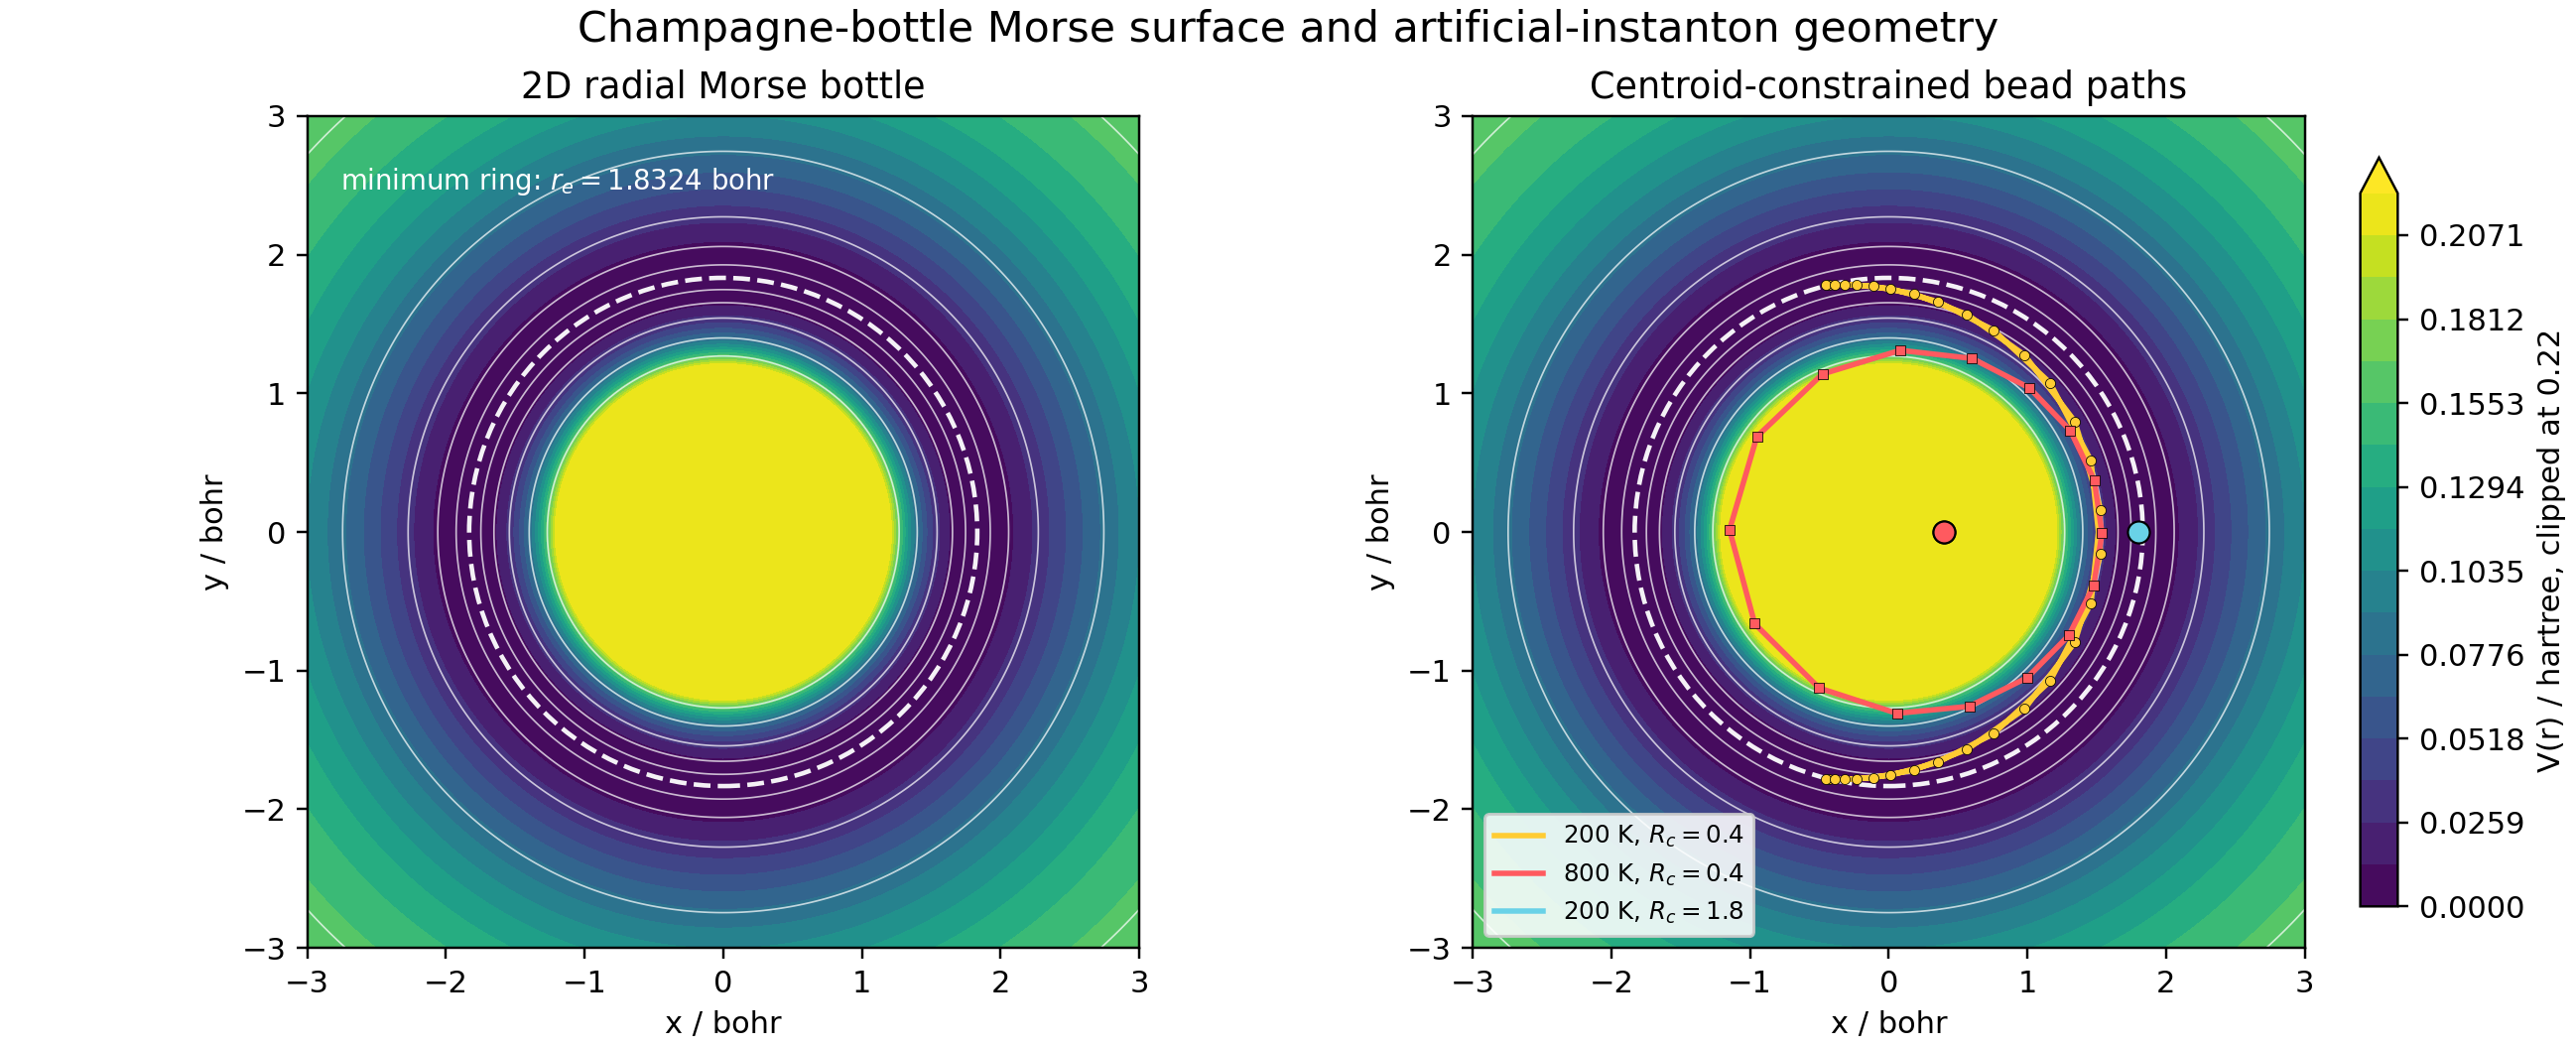
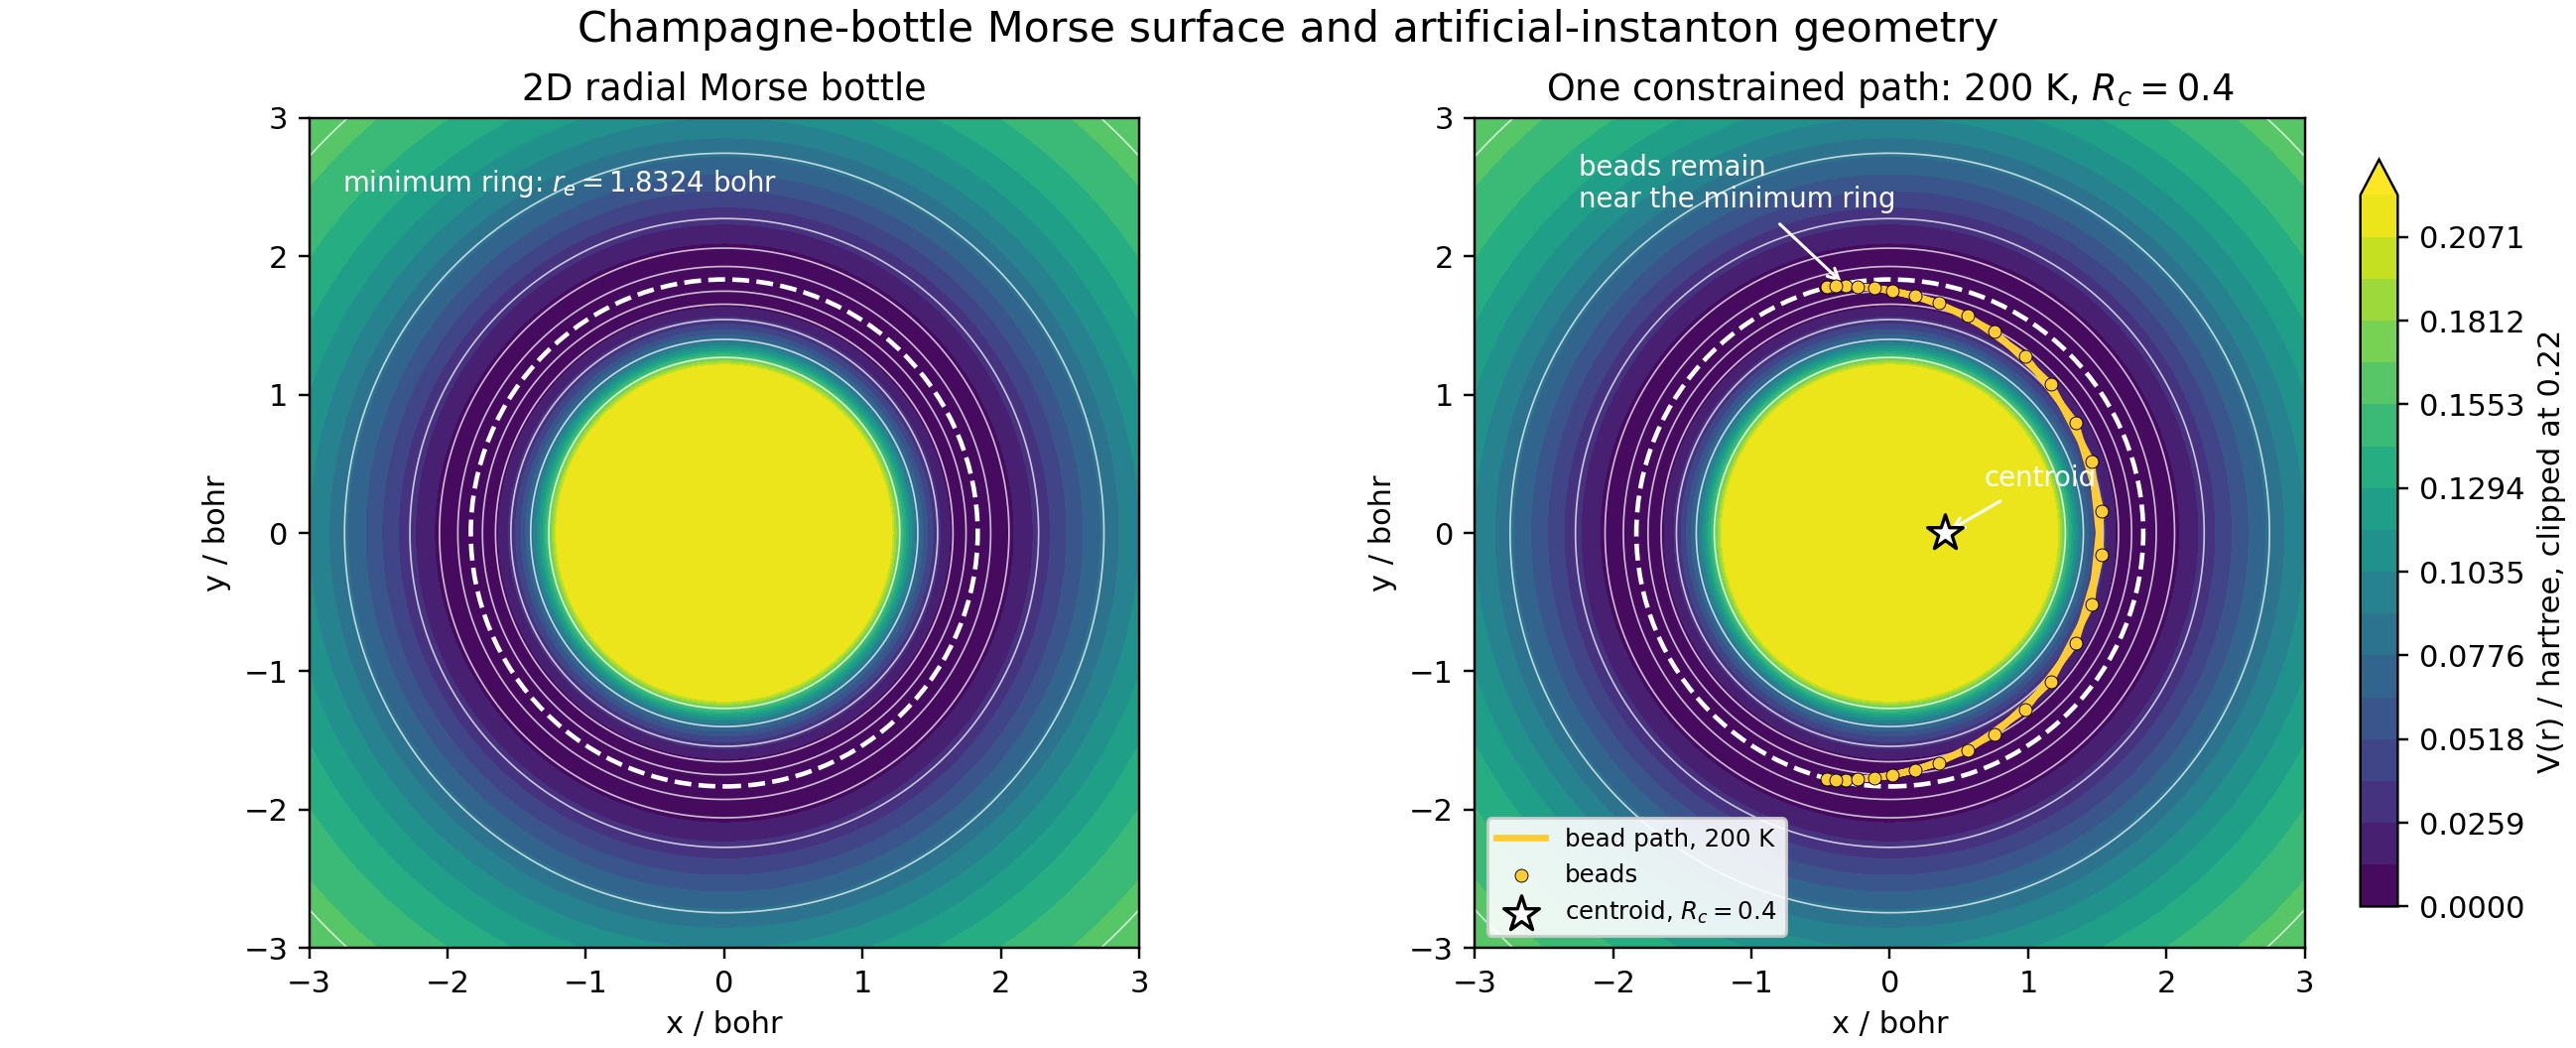
Clarify CMD curvature path figure

diff --git a/posts/cmd-curvature-redshift-champagne-bottle.html b/posts/cmd-curvature-redshift-champagne-bottle.html
@@ -49,7 +49,7 @@
           </p>
 
           <figure>
-            <img src="../assets/img/cmd-series/cmd-curvature-potential-surface.png" alt="2D champagne-bottle Morse potential with representative centroid-constrained bead paths">
+            <img src="../assets/img/cmd-series/cmd-curvature-potential-surface.png" alt="2D champagne-bottle Morse potential with one low-temperature centroid-constrained bead path">
             <figcaption>The 2D Morse bottle used for the CMD curvature test. The dashed circle marks the physical minimum at \(r_e\). In the right panel, a low-temperature path constrained to \(R_c=0.4\) bohr can keep its beads near the minimum ring while its centroid sits much closer to the origin. This is the geometry behind the artificial-instanton basin.</figcaption>
           </figure>
 

diff --git a/assets/code/cmd/cmd_curvature_potential_surface.py b/assets/code/cmd/cmd_curvature_potential_surface.py
@@ -1,8 +1,8 @@
 """Plot the 2D champagne-bottle Morse surface used in the CMD curvature note.
 
 The script is self-contained for the potential surface.  If an instanton
-directory is provided, it also overlays representative centroid-constrained
-ring-polymer paths saved as ``instanton_T*_R*.npz`` files.
+directory is provided, it also overlays one representative low-temperature
+centroid-constrained ring-polymer path saved as ``instanton_T200_R0.40.npz``.
 """
 
 from __future__ import annotations
@@ -59,25 +59,37 @@ def main():
     axes[0].set_title("2D radial Morse bottle")
     axes[0].text(0.04, 0.94, r"minimum ring: $r_e=1.8324$ bohr", color="white", transform=axes[0].transAxes, fontsize=9, va="top")
 
-    path_specs = [
-        ("instanton_T200_R0.40.npz", "200 K, $R_c=0.4$", "#ffcc33", "o"),
-        ("instanton_T800_R0.40.npz", "800 K, $R_c=0.4$", "#ff5a5f", "s"),
-        ("instanton_T200_R1.80.npz", "200 K, $R_c=1.8$", "#69d2e7", "^"),
-    ]
-    for filename, label, color, marker in path_specs:
-        data = load_path(instanton_dir, filename)
-        if data is None:
-            continue
+    data = load_path(instanton_dir, "instanton_T200_R0.40.npz")
+    if data is not None:
         q = data["path"]
         q_closed = np.vstack([q, q[0]])
-        axes[1].plot(q_closed[:, 0], q_closed[:, 1], color=color, lw=1.8, label=label)
-        axes[1].scatter(q[:, 0], q[:, 1], s=11, color=color, marker=marker, edgecolor="black", linewidth=0.25, zorder=4)
+        axes[1].plot(q_closed[:, 0], q_closed[:, 1], color="#ffcc33", lw=2.2, label="bead path, 200 K")
+        axes[1].scatter(q[:, 0], q[:, 1], s=18, color="#ffcc33", marker="o", edgecolor="black", linewidth=0.3, zorder=4, label="beads")
         c = data["centroid"]
-        axes[1].scatter([c[0]], [c[1]], s=52, color=color, edgecolor="black", linewidth=0.7, zorder=5)
+        axes[1].scatter([c[0]], [c[1]], s=150, color="white", marker="*", edgecolor="black", linewidth=1.1, zorder=6, label=r"centroid, $R_c=0.4$")
+        axes[1].annotate(
+            "centroid",
+            xy=(c[0], c[1]),
+            xytext=(0.68, 0.34),
+            arrowprops={"arrowstyle": "->", "lw": 1.0, "color": "white"},
+            color="white",
+            fontsize=9,
+        )
+        bead = q[np.argmax(q[:, 1])]
+        axes[1].annotate(
+            "beads remain\nnear the minimum ring",
+            xy=(bead[0], bead[1]),
+            xytext=(-2.25, 2.35),
+            arrowprops={"arrowstyle": "->", "lw": 1.0, "color": "white"},
+            color="white",
+            fontsize=9,
+        )
+    else:
+        axes[1].text(0.5, 0.08, "provide --instanton-dir to overlay the path", transform=axes[1].transAxes, ha="center", color="white")
 
-    axes[1].set_title("Centroid-constrained bead paths")
-    if axes[1].lines:
-        axes[1].legend(loc="lower left", fontsize=8, frameon=True, facecolor="white", framealpha=0.88)
+    axes[1].set_title("One constrained path: 200 K, $R_c=0.4$")
+    if data is not None:
+        axes[1].legend(loc="lower left", fontsize=8, frameon=True, facecolor="white", framealpha=0.9)
     cb = fig.colorbar(cf, ax=axes, shrink=0.9, pad=0.02)
     cb.set_label("V(r) / hartree, clipped at 0.22")
     fig.suptitle("Champagne-bottle Morse surface and artificial-instanton geometry", fontsize=14)